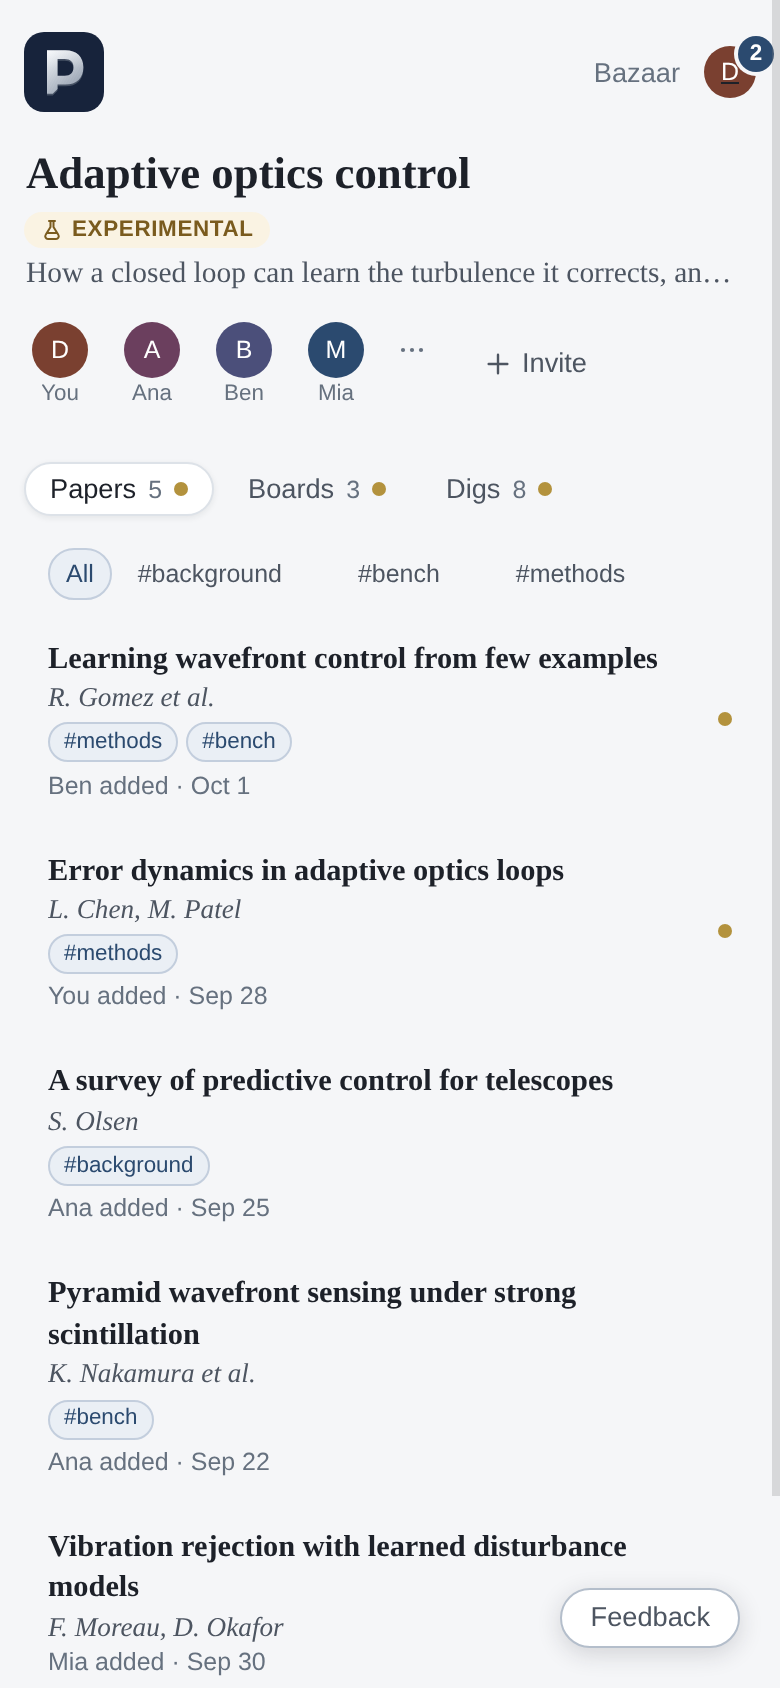
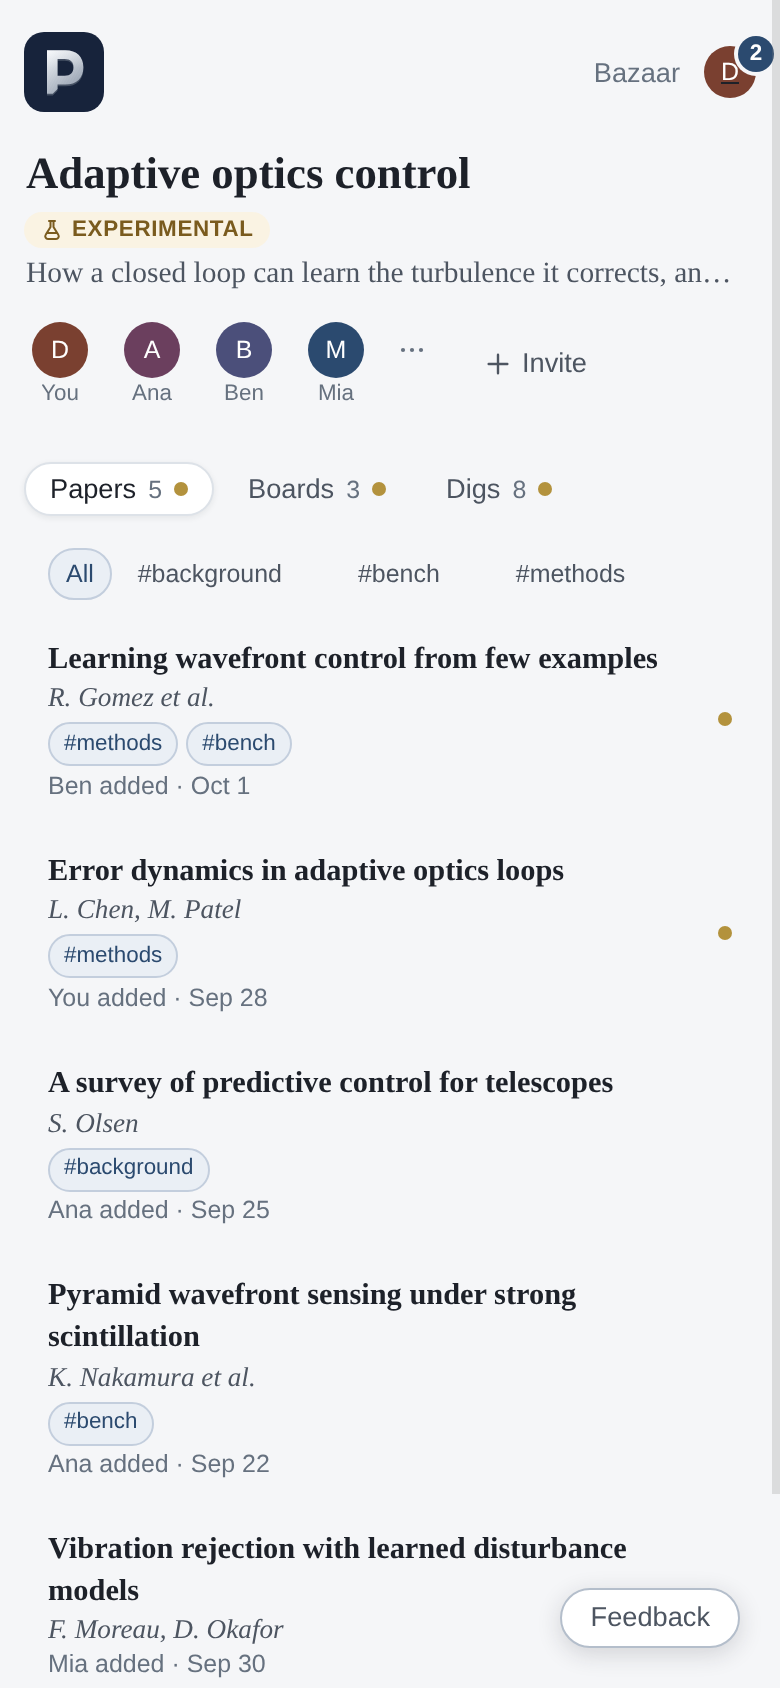
Align project tag controls

diff --git a/shared/applicationStyles.js b/shared/applicationStyles.js
@@ -5244,11 +5244,11 @@ button.project-quiet.project-danger:hover:not(:disabled) { background: var(--red
 .project-paper-tags { display: flex; flex-wrap: wrap; align-items: center; gap: 4px; margin-top: 4px; font-family: var(--font-ui); }
 .project-paper-tag-list { display: inline-flex; flex-wrap: wrap; gap: 4px; margin-top: 4px; }
 .project-paper-tags > .project-paper-tag-list { margin-top: 0; }
-.project-paper-tag { display: inline-flex; align-items: center; min-height: 20px; padding: 1px 7px; border: 1px solid var(--accent-line); border-radius: var(--radius-pill); background: var(--accent-soft); color: var(--accent); font: 500 var(--fs-2xs)/1.3 var(--font-ui); }
-.project-tag-edit { min-height: 20px; padding: 1px 5px; border: 0; background: transparent; box-shadow: none; color: var(--ink-faint); font: 500 var(--fs-2xs) var(--font-ui); }
+.project-paper-tag { display: inline-flex; align-items: center; justify-content: center; box-sizing: border-box; min-height: 22px; padding: 1px 7px; border: 1px solid var(--accent-line); border-radius: var(--radius-pill); background: var(--accent-soft); color: var(--accent); font: 500 var(--fs-2xs)/1 var(--font-ui); }
+.project-tag-edit { display: inline-flex; align-items: center; justify-content: center; box-sizing: border-box; min-height: 22px; padding: 1px 5px; border: 0; background: transparent; box-shadow: none; color: var(--ink-faint); font: 500 var(--fs-2xs)/1 var(--font-ui); }
 .project-tag-edit:hover:not(:disabled), .project-tag-edit:focus-visible { border: 0; background: transparent; color: var(--accent); }
 button.project-paper-tag.is-removable { gap: 4px; box-shadow: none; }
-button.project-paper-tag.is-removable span { color: var(--ink-faint); }
+button.project-paper-tag.is-removable span { display: inline-flex; align-items: center; line-height: 1; color: var(--ink-faint); }
 button.project-paper-tag.is-removable:hover:not(:disabled), button.project-paper-tag.is-removable:focus-visible { border-color: var(--red); background: var(--red-soft); color: var(--red); }
 .project-tag-picker { position: relative; flex: 1 1 12rem; max-width: 18rem; }
 .project-tag-input { width: 100%; min-height: 26px; box-sizing: border-box; padding: 3px 8px; border-color: var(--line-strong); border-radius: var(--radius); font: var(--fs-xs) var(--font-ui); }
